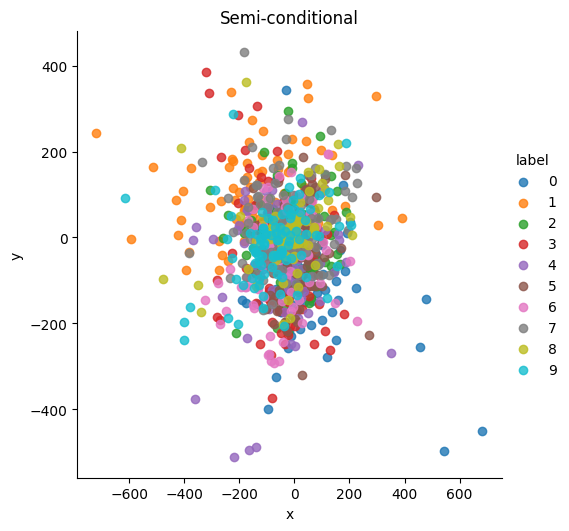
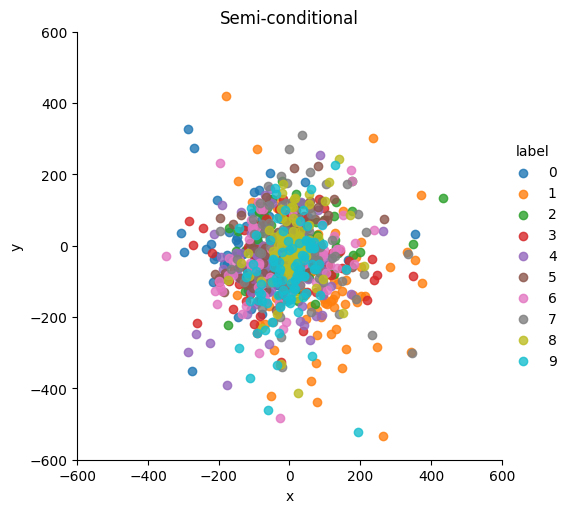
bug fixes

diff --git a/main.py b/main.py
@@ -68,18 +68,6 @@ class VAE(nn.Module):
             x = torch.cat((x, c), dim=-1)
         mu, log_var = self.encoder(x)
         z = self.sampling(mu, log_var)
-        if abs(z[:, 0]).max() > 1000:
-            print(abs(z[:, 0]).max())
-            print('z: ', z[abs(z[:, 0]).argmax(), 0])
-            print('log_var: ', log_var[abs(z[:, 0]).argmax()])
-            print('mu: ', mu[abs(z[:, 0]).argmax()])
-            print('x: ', x[abs(z[:, 0]).argmax()])
-        if abs(z[:, 1]).max() > 1000:
-            print(abs(z[:, 1]).max())
-            print('z: ', z[abs(z[:, 1]).argmax(), 1])
-            print('log_var: ', log_var[abs(z[:, 1]).argmax()])
-            print('mu: ', mu[abs(z[:, 1]).argmax()])
-            print('x: ', x[abs(z[:, 1]).argmax()])
         return z
 
 
@@ -203,6 +191,8 @@ if __name__ == '__main__':
     df['x'] = pd.DataFrame(z[:, 0]).astype('float')
     df['y'] = pd.DataFrame(z[:, 1]).astype('float')
     g = sns.lmplot(x='x', y='y', hue='label', data=df, fit_reg=False, legend=True)
+    g.set(xlim=(-600, 600))
+    g.set(ylim=(-600, 600))
     if conditional > 1:
         g.set(title='Conditional')
         g.savefig('samples/latent_cond_' + '.png')
